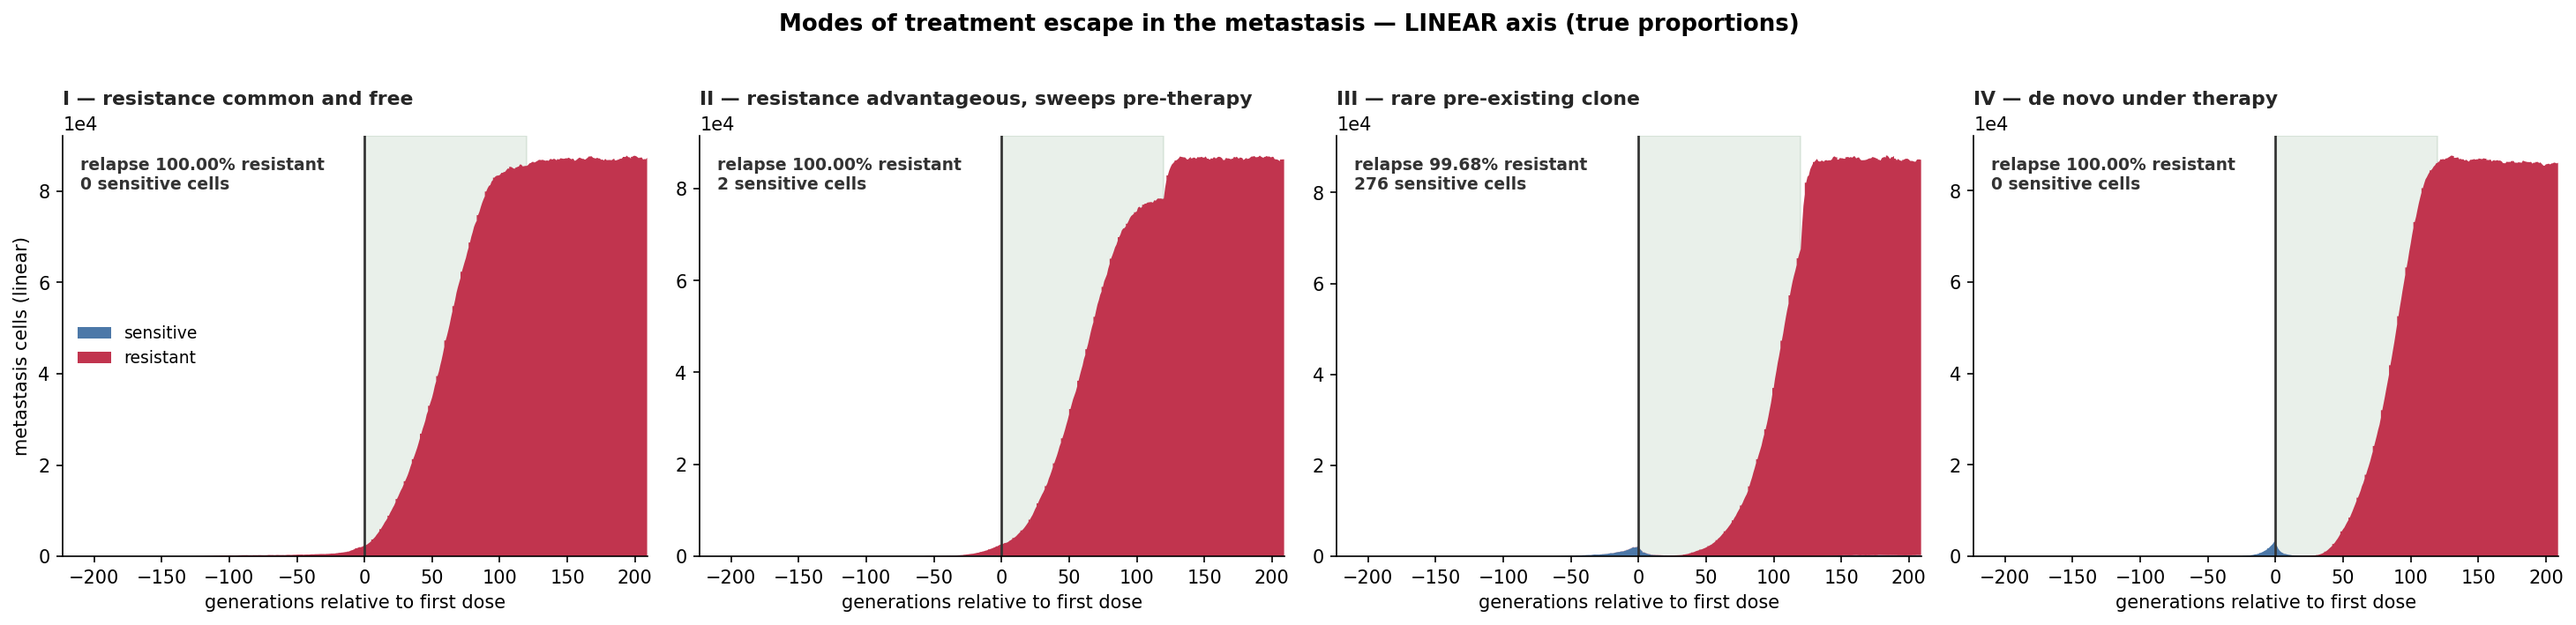
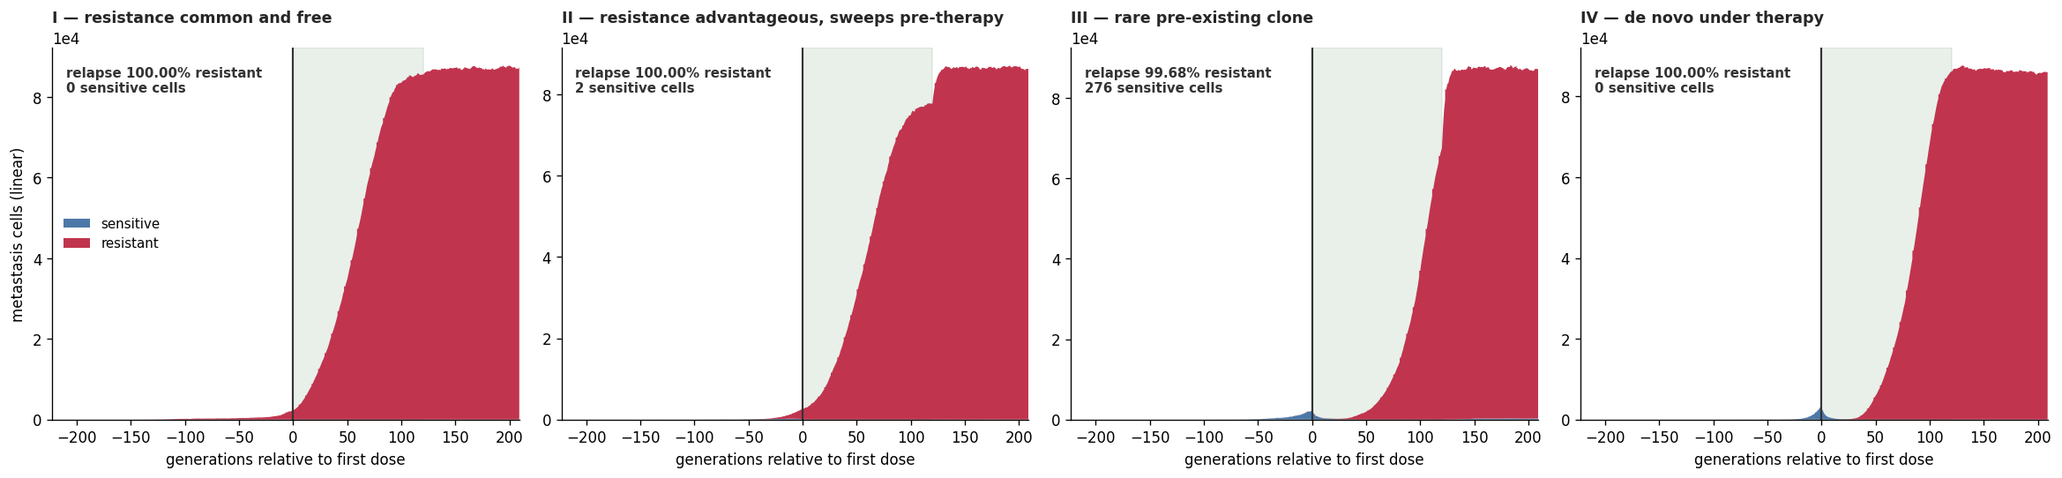
validation: make the escape-modes figure reproducible from the repo
d3d6965 shipped the subsection with a figure generated by mode4_scratch/trace_mode.py,
outside the repo — the only validation figure without a validation/validate_*.py beside
it. This closes that.

Verified faithful, not merely similar: all four panels come out BYTE-IDENTICAL to the
published runs (sensitive series, resistant series and the generation index), so the
numbers quoted in the paper are literally what the script produces. A config port can
easily land on a different RNG path and still draw a plausible figure; matching to the
row is what rules that out.

Ported from trace_mode.py: the lineage walk that resolves where the relapsing clone's
resistance entered (compartment totals cannot separate III from IV), the make_cell_data
suppression that is 72% of runtime, and the row->generation mapping so the x-axis is
generations rather than trace rows silently relabelled as such.

Dropped: the amplification series, the GIF trajectory export and the key=value override
parser. Panels are structured dicts, so the four configurations read as data.

Added: per-panel .npz caching (gitignored), so re-plotting is free and an interrupted
~25-40 min run resumes instead of restarting, plus --only and --force.

Runtime is far above the other validation scripts because a de novo origin needs a
deposit large enough to supply one; the docstring says so.

diff --git a/validation/validate_escape_modes.py b/validation/validate_escape_modes.py
@@ -1,0 +1,303 @@
+"""Validate that iscc reproduces the four modes of therapeutic escape (Kane et al. 2026, Fig. 1).
+
+Resistance to therapy is classified by WHEN the resistant lineage arose and WHETHER the tumor ever
+responded. This script runs the four modes in a metastatic deposit under one kill model, varying only
+the resistance GENETICS between panels:
+
+  I    resistance common and FREE            -> present in the whole deposit, no response
+  II   resistance ADVANTAGEOUS (cost < 0)    -> sweeps to fixation before therapy, no response
+  III  rare pre-existing clone (costly)      -> responds, then relapses FROM THAT CLONE
+  IV   de novo under therapy                 -> deposit starts clean, responds, relapses from a
+                                               lineage that first acquired resistance ON DRUG
+
+Modes III and IV draw nearly the same curve; what separates them is the ORIGIN of the relapsing
+lineage, which compartment totals cannot see. The script therefore resolves an actual lineage --
+the resistant clone dominating the met at the end, walked up to the ancestor where resistance
+entered it -- and reports whether that ancestor predates the first dose.
+
+TWO ASYMMETRIES, both deliberate and both stated in the paper:
+  * Mode IV alone is dosed with a MUTAGENIC drug. This is forced, not a convenience: III and IV
+    differ only in the relapsing lineage's origin, so a drug mutagenic enough to manufacture IV's
+    de novo clone also manufactures one in III and overwrites the pre-existing clone that DEFINES
+    it (measured: III falls to a 5.1x response and relapses de novo under the same mutagen). No
+    single drug produces all four modes.
+  * Mode IV is stochastic BY CONSTRUCTION -- it needs a deposit founded WITHOUT resistance AND a de
+    novo lineage that establishes rather than drifting out. The metastatic founder bottleneck makes
+    standing resistance in the deposit bimodal rather than smoothly Poisson, so roughly one seed in
+    six yields the mode. SEEDS below are selected, and the paper says so.
+
+Produces manuscript/figures/validation_escape_modes.png.
+
+RUNTIME ~25-40 min for all four panels at the scale the published figure uses -- far heavier than the
+other validation scripts, because a de novo origin needs a deposit large enough to supply one. Each
+panel is cached as an .npz under validation/.cache_escape_modes/, so re-plotting is free and an
+interrupted run resumes. Use --only to run a subset, --force to recompute.
+
+Usage:  python validation/validate_escape_modes.py [--only I,IV] [--force]
+"""
+import argparse
+import os
+import sys
+import tempfile
+import time
+
+import numpy as np
+import yaml
+
+from iscc.tumor.models import GenotypeTumor
+from iscc.tumor import arc as arc_mod
+
+REPO = os.path.dirname(os.path.dirname(os.path.abspath(__file__)))
+CONFIG = os.path.join(REPO, "configs", "landing.yaml")
+CACHE = os.path.join(os.path.dirname(os.path.abspath(__file__)), ".cache_escape_modes")
+
+# The rig. Mode IV needs a deposit big enough to supply a de novo origin, which is why this is not
+# at the toy scale the other validation scripts use. met_seed_kappa and confine_gens are the two
+# levers that keep it affordable: ~85% of all cells (and so ~85% of the append-only genotype
+# registry that dominates memory) live in the PRIMARY, a compartment resected before the first dose
+# that appears in none of the mode criteria. A higher kappa lets the deposit establish from a
+# smaller primary; a shorter confinement drops a flat delay in which nothing happens.
+RIG = dict(grid_size=60, met_grid_size=40, met_seed_kappa=0.40, confine_gens=600,
+           total_cancer=60_000, met_cancer=2_000, min_freq=0.02, snapshot_every=6)
+
+# One shared drug for I-III. kill_mode "proliferation" scales the hazard with each clone's OWN
+# division rate, so a fast clone cannot outrun a fixed dose; under the additive default every clone
+# takes the same ABSOLUTE extra death and a driver-saturated clone simply outgrows the course.
+DRUG = dict(kill_mode="proliferation", kill_rate=1.0, chemo_steps=120, relapse_steps=90)
+
+PANELS = [
+    dict(key="I", seed=2, title="I — resistance common and free",
+         selection=dict(prop_treatment_resistance=0.05, treatment_resistance_cost=0.0)),
+    dict(key="II", seed=2, title="II — resistance advantageous, sweeps pre-therapy",
+         selection=dict(prop_treatment_resistance=0.006, treatment_resistance_cost=-0.15)),
+    dict(key="III", seed=2, title="III — rare pre-existing clone",
+         selection=dict(prop_treatment_resistance=0.006, treatment_resistance_cost=0.3)),
+    # Mode IV also carries the drug-induced resistance STATE (DESIGN_phenotype_plasticity.md 3.3):
+    # resistance is a carried cell state, so a CNA that deletes the triggering allele leaves the cell
+    # resistant. Without it the relapse is 99.1% resistant rather than 100% -- reversion still fires
+    # at its calibrated rate here (14.6% of relapse cells HAVE lost the allele), the state just means
+    # losing it no longer restores sensitivity. relax=0 is the permanent limit; see 3.4 for why that
+    # is a figure choice and not a requirement (fair single-charge pricing gives 97.7% at relax=0.02).
+    dict(key="IV", seed=5, title="IV — de novo under therapy",
+         selection=dict(prop_treatment_resistance=0.00025, treatment_resistance_cost=0.35,
+                        treatment_resistant_effects=2.8,
+                        resistance_state_genetic=True, resistance_state_effect=0.99,
+                        resistance_state_relax=0.0, resistance_state_induction=0.0,
+                        resistance_state_cost=0.0),
+         cancer=dict(n_snvs_per_allele=0.02),
+         # The drug as a POINT mutagen. `mutagenicity` alone cannot shift the acquisition:reversion
+         # balance -- it scales the mutate-vs-disperse FATE probability, so point mutations and CNAs
+         # move in lockstep. Targeting "snv" scales n_snvs_per_allele instead, which feeds only the
+         # SNV branch, so acquiring resistance gets likelier while deleting it stays flat.
+         drug=dict(mutagenicity=20.0, mutagenicity_target="snv")),
+]
+
+SENS, RES, BAND = "#4c78a8", "#c1344e", "#2f6d3a"
+
+
+def _config(panel):
+    """landing.yaml with this panel's overrides applied, written to a temp file.
+
+    Built through a file rather than kwargs so the config goes through exactly the same parse the
+    published runs used -- the curves are reproducible only if the resulting config is identical.
+    """
+    cfg = yaml.safe_load(open(CONFIG))
+
+    sel = cfg["selection_params"]
+    sel.update(panel.get("selection", {}))
+
+    cfg["cell_params"]["cancer"].update(panel.get("cancer", {}))
+
+    cfg["spatial_params"]["grid_size"] = RIG["grid_size"]
+    cfg["spatial_params"]["met_grid_size"] = RIG["met_grid_size"]
+    cfg["spatial_params"]["met_seed_kappa"] = RIG["met_seed_kappa"]
+    cfg["spatial_params"]["origin_confinement"]["generations"] = RIG["confine_gens"]
+
+    # The Muller trace is DENSE over every clone ever seen (>200k columns by the relapse), so on a
+    # diversity-preserving arc it, not the tumour, is what fills memory. min_freq prunes the clone
+    # columns and snapshot_every thins the rows.
+    cfg["schedule"]["min_freq"] = RIG["min_freq"]
+    cfg["snapshot_every"] = RIG["snapshot_every"]
+
+    chemo = next(p for p in cfg["schedule"]["phases"] if p["op"] == "chemotherapy")
+    chemo["kill_mode"] = DRUG["kill_mode"]
+    chemo["kill_rate"] = DRUG["kill_rate"]
+    chemo["steps"] = chemo["duration"] = DRUG["chemo_steps"]
+    chemo.update(panel.get("drug", {}))
+    for ph in cfg["schedule"]["phases"]:
+        if ph.get("phase") == "relapse":
+            ph["steps"] = DRUG["relapse_steps"]
+        # `until` is OR-semantics, so whichever bound is hit FIRST ends growth. Bounding met_cancer
+        # as well as total_cancer makes the deposit size at the first dose a controlled variable --
+        # and that size is what sets how much standing resistance it carries into treatment.
+        if ph.get("op") == "grow" and "until" in ph:
+            ph["until"]["total_cancer"] = RIG["total_cancer"]
+            ph["until"]["met_cancer"] = RIG["met_cancer"]
+
+    cfg["schedule"]["seed"] = panel["seed"]
+    fd, tmp = tempfile.mkstemp(suffix=".yaml")
+    os.close(fd)
+    yaml.safe_dump(cfg, open(tmp, "w"))
+    return tmp, cfg
+
+
+def _simulate(panel):
+    """Run one panel; return the met's sensitive/resistant series, the dosing window and the origin."""
+    t0 = time.time()
+    tmp, cfg = _config(panel)
+    tumor = GenotypeTumor(config=tmp, seed=panel["seed"])
+    os.unlink(tmp)
+
+    # grow() ends with make_cell_data(), and the schedule calls grow(n_steps=1) once per generation,
+    # so a ~2,000-generation arc rebuilds the full per-cell ground truth 2,000 times. Profiled at this
+    # scale that is 72% of the runtime, and nothing here reads it. Verified: suppressing it leaves the
+    # sensitive/resistant curves byte-identical and runs 4.4x faster.
+    real_mcd = tumor.make_cell_data
+    tumor.make_cell_data = lambda *a, **k: None
+
+    # TRACE ROWS ARE NOT GENERATIONS. _grow_tau snapshots once per grow() call and _tau_generation
+    # snapshots again every `snapshot_every` generations, so a row index is ~1-2x a generation index
+    # and the ratio is not constant. Record the row each generation STARTS at, so the x-axis is in
+    # generations rather than rows silently relabelled as generations.
+    real_grow, gen_row = tumor.grow, []
+
+    def _grow(*a, **k):
+        gen_row.append(len(tumor.traces))
+        return real_grow(*a, **k)
+
+    tumor.grow = _grow
+    frames, marks, seed, min_freq = arc_mod.execute_schedule(tumor, cfg["schedule"])
+    tumor.grow = real_grow
+    tumor.make_cell_data = real_mcd
+
+    stage = {str(g): arc_mod.stage_of(rep) for g, rep in tumor.genotypes.items()}
+    n = len(tumor.traces)
+    sens, res = np.zeros(n, dtype=np.int64), np.zeros(n, dtype=np.int64)
+    for i, row in enumerate(tumor.traces):
+        for g, c in row.get("met_counts", {}).items():
+            st = stage.get(str(g))
+            if st is None:                       # a normal (non-cancer) cell type
+                continue
+            (res if st == "resistance" else sens)[i] += c
+
+    # WHERE DID THE RELAPSE'S RESISTANCE COME FROM? Compartment totals cannot say, so resolve a
+    # lineage: take the resistant clone dominating the MET at the end (not the whole tumour -- the
+    # primary is resected, so a primary clone would name the wrong lineage) and walk up to the
+    # ancestor in which resistance first entered it.
+    parents = {str(k): str(v) for k, v in dict(tumor.genotypes_parents).items()}
+    first_seen = {}
+    for gi, row in enumerate(tumor.traces):
+        for g in row.get("genotypes_counts", {}):
+            first_seen.setdefault(str(g), gi)
+
+    final = {str(g): c for g, c in tumor.traces[-1].get("met_counts", {}).items()}
+    resistant_final = sorted(((c, g) for g, c in final.items() if stage.get(g) == "resistance"),
+                             reverse=True)
+    origin_row = -1
+    if resistant_final:
+        o, seen = resistant_final[0][1], set()
+        while o in parents and o not in seen:
+            seen.add(o)
+            if stage.get(parents[o]) != "resistance":
+                break
+            o = parents[o]
+        origin_row = first_seen.get(o, -1)
+
+    mark = {str(lbl): int(i) for i, lbl in marks}
+    print(f"  {panel['key']}: {time.time() - t0:.0f}s, {n} rows, "
+          f"{len(tumor.genotypes):,} genotypes", flush=True)
+    return dict(sens=sens, res=res, c0=mark["chemo start"],
+                c1=min(mark.get("chemo end", n - 1), n - 1), origin_row=origin_row,
+                trace_gen=_generation_index(gen_row, n))
+
+
+def _generation_index(gen_row, n):
+    """Map each trace row to the generation it belongs to, from the rows generations started at."""
+    trace_gen = np.zeros(n, dtype=np.int64)
+    for gi, r0 in enumerate(gen_row):
+        if r0 < n:
+            trace_gen[r0:] = gi
+    return trace_gen
+
+
+def _load(panel, force=False):
+    os.makedirs(CACHE, exist_ok=True)
+    path = os.path.join(CACHE, f"{panel['key']}.npz")
+    if os.path.exists(path) and not force:
+        z = np.load(path, allow_pickle=True)
+        return {k: z[k] for k in z.files}
+    out = _simulate(panel)
+    np.savez(path, **out)
+    return out
+
+
+def main():
+    ap = argparse.ArgumentParser()
+    ap.add_argument("--only", default="", help="comma-separated panel keys, e.g. I,IV")
+    ap.add_argument("--force", action="store_true", help="recompute even if cached")
+    args = ap.parse_args()
+    wanted = [k.strip() for k in args.only.split(",") if k.strip()] or [p["key"] for p in PANELS]
+    panels = [p for p in PANELS if p["key"] in wanted]
+
+    results = {}
+    for p in panels:
+        results[p["key"]] = _load(p, force=args.force)
+
+    print(f"\n{'mode':>5} {'res@1st dose':>16} {'response':>9} {'relapse origin':>16} "
+          f"{'sensitive':>10} {'% resistant':>12}")
+    for p in panels:
+        r = results[p["key"]]
+        s, res = r["sens"].astype(float), r["res"].astype(float)
+        c0, c1 = int(r["c0"]), int(r["c1"])
+        burden = (s + res)[c0:c1 + 1]
+        depth = burden[0] / max(burden.min(), 1.0)      # burden@first dose / nadir; NOT max/min --
+        tot = max(s[-1] + res[-1], 1)                   # the peak is the relapse, at the END, which
+        f0 = res[c0] / max(s[c0] + res[c0], 1)          # scores a monotonic non-responder as a 38x
+        orow = int(r["origin_row"])                     # responder.
+        origin = "PRE-EXISTING" if 0 <= orow < c0 else ("DE NOVO" if orow >= 0 else "none")
+        print(f"{p['key']:>5} {int(res[c0]):>9,} ({f0:5.1%}) {depth:>8.1f}x {origin:>16} "
+              f"{int(s[-1]):>10,} {100 * res[-1] / tot:>11.3f}%")
+
+    if len(panels) < len(PANELS):
+        print(f"\nonly {len(panels)}/{len(PANELS)} panels; skipping the figure")
+        return
+
+    import matplotlib
+    matplotlib.use("Agg")
+    import matplotlib.pyplot as plt
+
+    # LINEAR, not symlog: symlog gives the interval 0 -> 50 cells almost as much height as
+    # 50 -> 86,000, so a rounding-error remnant renders as a co-dominant band. Linear shows what the
+    # tumour is actually made of. The cost is that pre-treatment history collapses to nothing.
+    fig, axes = plt.subplots(1, len(PANELS), figsize=(4.9 * len(PANELS), 4.6))
+    for ax, p in zip(np.atleast_1d(axes), PANELS):
+        r = results[p["key"]]
+        s, res = r["sens"].astype(float), r["res"].astype(float)
+        c0, c1 = int(r["c0"]), int(r["c1"])
+        g = r["trace_gen"].astype(float)
+        x = g - g[c0]
+        ax.axvspan(x[c0], x[c1], color=BAND, alpha=0.10, zorder=0)
+        ax.stackplot(x, s, res, colors=[SENS, RES], lw=0, labels=["sensitive", "resistant"])
+        ax.axvline(0, color="0.2", lw=1.3)
+        ax.set_xlim(x[max(c0 - 260, 0)], x[-1])
+        ax.set_ylim(0, None)
+        ax.set_title(p["title"], loc="left", fontsize=10.5, fontweight="bold", color="0.15")
+        tot = max(s[-1] + res[-1], 1)
+        ax.text(0.03, 0.95,
+                f"relapse {100 * res[-1] / tot:.2f}% resistant\n{int(s[-1]):,} sensitive cells",
+                transform=ax.transAxes, va="top", fontsize=9, fontweight="bold", color="0.2")
+        ax.set_xlabel("generations relative to first dose")
+        ax.spines[["top", "right"]].set_visible(False)
+        ax.ticklabel_format(axis="y", style="sci", scilimits=(0, 0))
+    np.atleast_1d(axes)[0].set_ylabel("metastasis cells (linear)")
+    np.atleast_1d(axes)[0].legend(loc="center left", fontsize=9, frameon=False)
+
+    fig.tight_layout()
+    out = os.path.join(REPO, "manuscript/figures/validation_escape_modes.png")
+    os.makedirs(os.path.dirname(out), exist_ok=True)
+    fig.savefig(out, dpi=120, bbox_inches="tight")
+    print(f"figure -> {out}")
+
+
+if __name__ == "__main__":
+    sys.exit(main())
